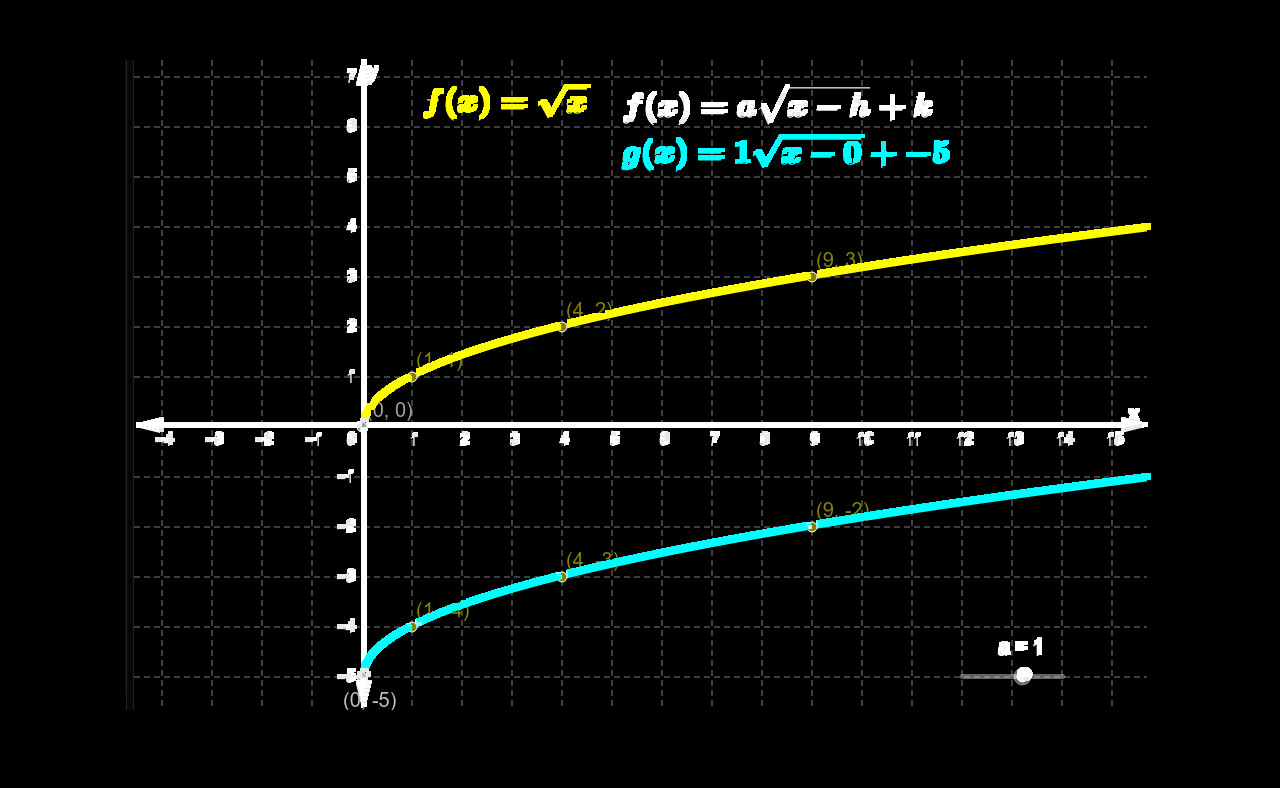
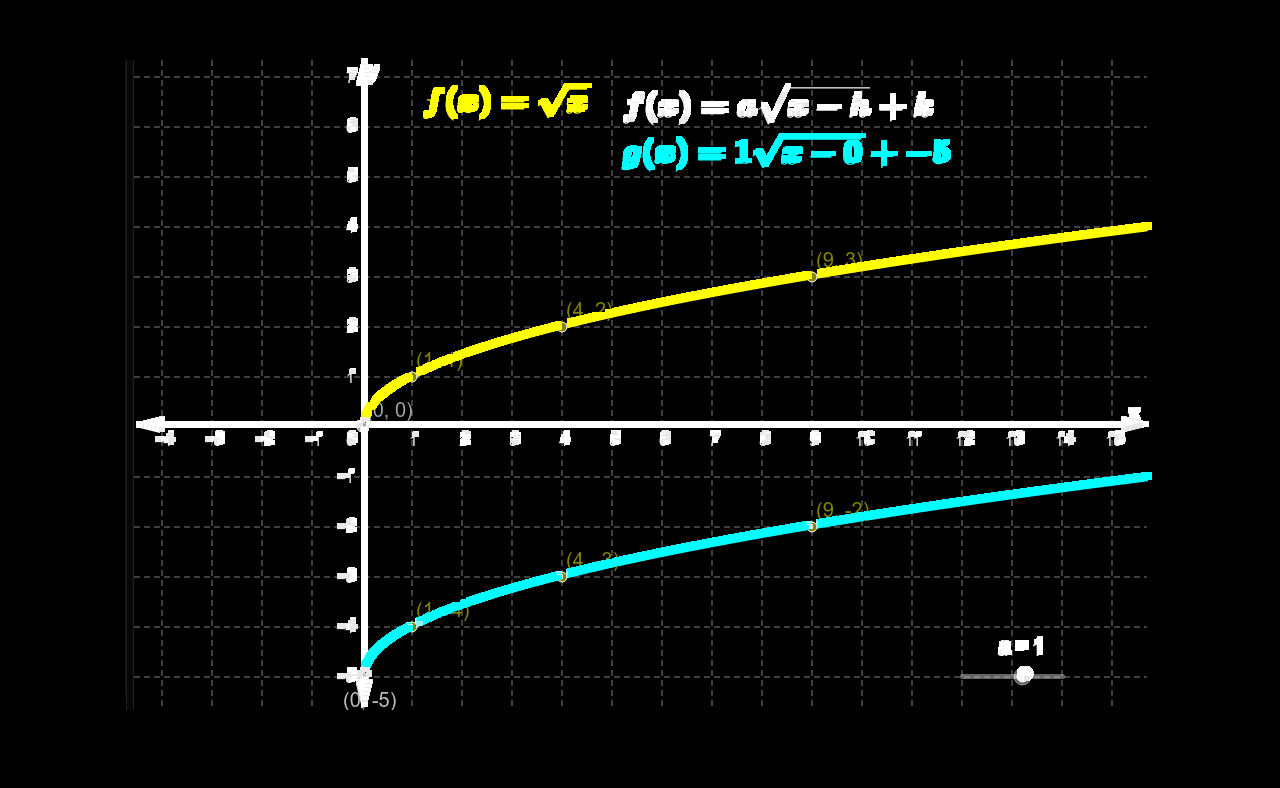
works on all of the images

Changed region(s): [[0.5, 0.1827, 0.5312, 0.2132], [0.5, 0.1218, 0.5312, 0.1523]]

diff --git a/MyCanvas.java b/MyCanvas.java
@@ -164,7 +164,7 @@ public class MyCanvas extends Canvas{
                 for (int x = 0; x < resizedWidth; x++) {
                     int rgba = resizedImage.getRGB(x, y);
                     Color col = new Color(rgba, true);
-                    if ((col.getRed() < 64) || (col.getGreen() < 64)  || (col.getBlue() < 64)){
+                    if ((col.getRed() < 32) || (col.getGreen() < 110)  || (col.getBlue() < 32)){
                         col = new Color(col.getRed(),
                                         col.getGreen(),
                                         col.getBlue());
